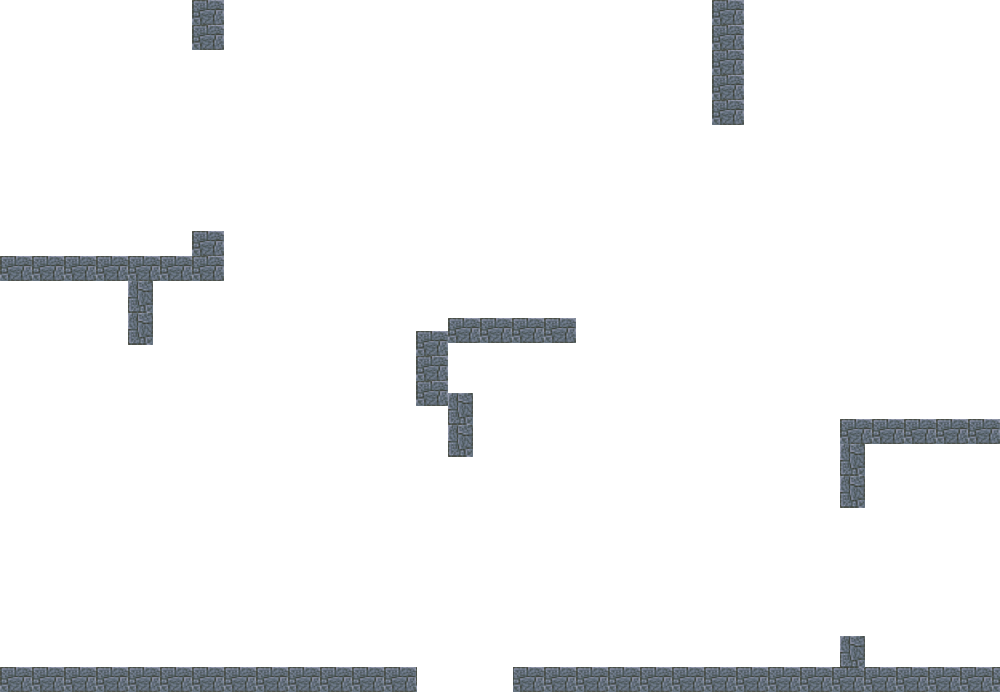
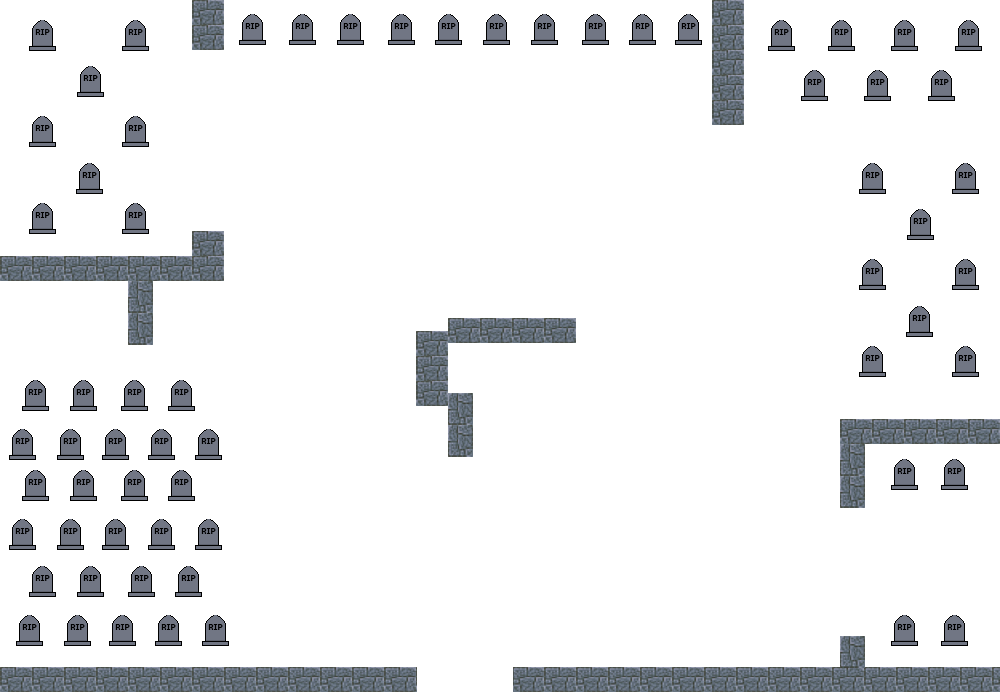
Add in more game elements.

diff --git a/src/main/java/Game.java b/src/main/java/Game.java
@@ -132,19 +132,34 @@ public class Game implements Runnable {
         }
     }
 
+
+    Rectangle deathBox;
+
     Sprite background;
     Sprite foreground;
     Sprite hamlet;
     Sprite death;
     Sprite deathScreen;
-    Sprite test;
+    Sprite fightScreen;
+    Sprite skull;
+    Sprite crown;
+    Sprite poison;
+    Sprite shield;
 
     BufferedImage bg;
     BufferedImage fg;
     BufferedImage hammy;
     BufferedImage deathy;
     BufferedImage deathScreenImg;
-    BufferedImage testy;
+    BufferedImage fightScreenImg;
+    BufferedImage skully;
+    BufferedImage crowny;
+    BufferedImage poisony;
+    BufferedImage hamletCrown;
+    BufferedImage hamletSkull;
+    BufferedImage hamletPoison;
+    BufferedImage hamletShield;
+    BufferedImage shieldy;
 
     public void initGame() {
 
@@ -158,16 +173,30 @@ public class Game implements Runnable {
             bg = ImageIO.read(getClass().getResource("/assets/bg.png")); //start with /main/... for intellij
             fg = ImageIO.read(getClass().getResource("/assets/fg.png"));
             hammy = ImageIO.read(getClass().getResource("/assets/hamlet.png"));
-            deathy = ImageIO.read(getClass().getResource("/assets/hamlet.png")); //TODO: change to real death sprite when made
+            deathy = ImageIO.read(getClass().getResource("/assets/death.png")); //TODO: change to real death sprite when made
             deathScreenImg = ImageIO.read(getClass().getResource("/assets/deathscreen.png"));
-            testy = ImageIO.read(getClass().getResource("/assets/shield.png"));
+            fightScreenImg = ImageIO.read(getClass().getResource("/assets/fightscreen.png"));
+            skully = ImageIO.read(getClass().getResource("/assets/skull.png"));
+            crowny = ImageIO.read(getClass().getResource("/assets/crown.png"));
+            poisony = ImageIO.read(getClass().getResource("/assets/poison.png"));
+            hamletCrown = ImageIO.read(getClass().getResource("/assets/hamletcrown.png"));
+            hamletSkull = ImageIO.read(getClass().getResource("/assets/hamletskull.png"));
+            hamletPoison = ImageIO.read(getClass().getResource("/assets/hamletpoison.png"));
+            hamletShield = ImageIO.read(getClass().getResource("/assets/hamletshield.png"));
+            shieldy = ImageIO.read(getClass().getResource("/assets/shield.png"));
 
             background = new Sprite(bg, 0, 0);
             foreground = new Sprite(fg, 0, 0);
-            hamlet = new Sprite(hammy, 300, 300);
-            death = new Sprite(deathy, 400, 400);
+            hamlet = new Sprite(hammy, 455, 650);
+            death = new Sprite(deathy, 500, 380);
             deathScreen = new Sprite(deathScreenImg, 0, 0);
-            test = new Sprite(testy, 500, 500);
+            fightScreen = new Sprite(fightScreenImg, 0, 0);
+            skull = new Sprite(skully, 75, 120);
+            crown = new Sprite(crowny, 915, 540);
+            poison = new Sprite(poisony, 900, 100);
+            shield = new Sprite(shieldy, 200, 480);
+
+            deathBox = new Rectangle(death.getX()-80, death.getY()-80, death.getImage().getWidth(null)+160, death.getImage().getHeight(null)+160);
         } catch (IOException e) {
             e.printStackTrace();
         }
@@ -225,9 +254,21 @@ public class Game implements Runnable {
      * Update method; game logic.
      */
     protected void update(int deltaTime) {
-        if(getItemCollision(hamlet, test)) { // For the "collection" of items
-            hamlet.setImage(testy);
-            test.setVisible(false);
+        if(getItemCollision(hamlet, shield)) { // For the "collection" of items
+            hamlet.setImage(hamletShield);
+            shield.setVisible(false);
+        }
+        if(getItemCollision(hamlet, skull)) {
+            hamlet.setImage(hamletSkull);
+            skull.setVisible(false);
+        }
+        if(getItemCollision(hamlet, crown)) {
+            hamlet.setImage(hamletCrown);
+            crown.setVisible(false);
+        }
+        if(getItemCollision(hamlet, poison)) {
+            hamlet.setImage(hamletPoison);
+            poison.setVisible(false);
         }
         if(getItemCollision(hamlet, death)) { // RIP
             hamlet.die();
@@ -244,7 +285,13 @@ public class Game implements Runnable {
             g.drawImage(deathScreen.getImage(), deathScreen.getX(), deathScreen.getY(), null);
         }
         if(death.isVisible()) g.drawImage(death.getImage(), death.getX(), death.getY(), null);
-        if(test.isVisible()) g.drawImage(test.getImage(), test.getX(), test.getY(), null);
+        if(skull.isVisible()) g.drawImage(skull.getImage(), skull.getX(), skull.getY(), null);
+        if(crown.isVisible()) g.drawImage(crown.getImage(), crown.getX(), crown.getY(), null);
+        if(poison.isVisible()) g.drawImage(poison.getImage(), poison.getX(), poison.getY(), null);
+        if(shield.isVisible()) g.drawImage(shield.getImage(), shield.getX(), shield.getY(), null);
+        if(enteredBoundary(hamlet, deathBox) && hamlet.isVisible()) {
+            g.drawImage(fightScreen.getImage(), fightScreen.getX(), fightScreen.getY(), null);
+        }
     }
 
     public boolean collision(Sprite s) {
@@ -283,6 +330,11 @@ public class Game implements Runnable {
         } else {
             return false;
         }
+    }
+
+    public boolean enteredBoundary(Sprite s, Rectangle rect) {
+        Rectangle sBounds = new Rectangle(getObjectBounds(s));
+        return sBounds.intersects(rect);
     }
 
     public static void main(String[] args) {
